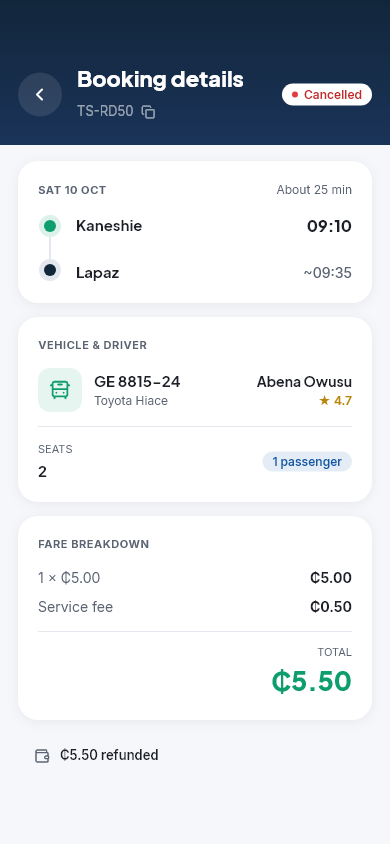
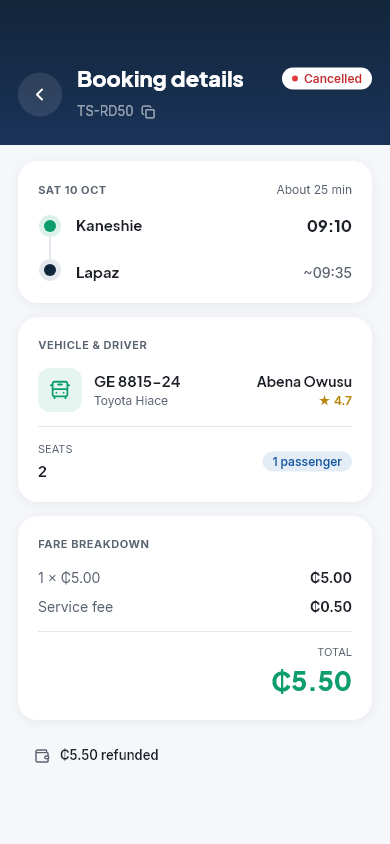
Booking details: the chip beside the title, the reference full size below
The white status chip is wider than the design's; beside both lines it
left the booking reference too little room, and it shrank to fit. The
chip now sits beside the title, and the reference has the line below.

Changed region(s): [[0.7077, 0.0616, 0.9538, 0.1232]]

diff --git a/TroSky/frontend/packages/trosky_ui/test/trips_components_test.dart b/TroSky/frontend/packages/trosky_ui/test/trips_components_test.dart
@@ -6,49 +6,65 @@ import 'package:flutter_test/flutter_test.dart';
 import 'package:trosky_ui/trosky_ui.dart';
 
 void main() {
-  testWidgets('a long booking reference stays on one line beside a chip, '
-      'on a 360 px phone at text scale 1.15', (tester) async {
-    tester.view.physicalSize = const Size(360, 400);
-    tester.view.devicePixelRatio = 1;
-    addTearDown(tester.view.reset);
-    await tester.pumpWidget(
-      MaterialApp(
-        theme: TroskyTheme.light(),
-        home: MediaQuery(
-          data: const MediaQueryData(
-            size: Size(360, 400),
-            textScaler: TextScaler.linear(1.15),
-          ),
-          child: Material(
-            child: TroskyPageHeader(
-              title: 'Booking details',
-              subtitle: 'TRK-6VJF55ME',
-              onBack: () {},
-              subtitleTrailing: TroskyIcons.copy(color: TroskyColors.whiteA55),
-              trailing: const TroskyStatusChip(
-                label: 'Pending payment',
-                tone: TroskyTagTone.amber,
+  testWidgets(
+    'a long booking reference stays on one line, full size, with a chip, '
+    'on a 360 px phone at text scale 1.15',
+    (tester) async {
+      tester.view.physicalSize = const Size(360, 400);
+      tester.view.devicePixelRatio = 1;
+      addTearDown(tester.view.reset);
+      await tester.pumpWidget(
+        MaterialApp(
+          theme: TroskyTheme.light(),
+          home: MediaQuery(
+            data: const MediaQueryData(
+              size: Size(360, 400),
+              textScaler: TextScaler.linear(1.15),
+            ),
+            child: Material(
+              child: TroskyPageHeader(
+                title: 'Booking details',
+                subtitle: 'TRK-6VJF55ME',
+                onBack: () {},
+                subtitleTrailing: TroskyIcons.copy(
+                  color: TroskyColors.whiteA55,
+                ),
+                trailing: const TroskyStatusChip(
+                  label: 'Pending payment',
+                  tone: TroskyTagTone.amber,
+                ),
               ),
             ),
           ),
         ),
-      ),
-    );
-    final reference = tester.renderObject<RenderParagraph>(
-      find.text('TRK-6VJF55ME'),
-    );
-    expect(reference.didExceedMaxLines, isFalse);
-    expect(
-      reference
-          .getBoxesForSelection(
-            const TextSelection(baseOffset: 0, extentOffset: 12),
-          )
-          .map((box) => box.top)
-          .toSet(),
-      hasLength(1),
-    );
-    expect(tester.takeException(), isNull);
-  });
+      );
+      final reference = tester.renderObject<RenderParagraph>(
+        find.text('TRK-6VJF55ME'),
+      );
+      expect(reference.didExceedMaxLines, isFalse);
+      expect(
+        reference
+            .getBoxesForSelection(
+              const TextSelection(baseOffset: 0, extentOffset: 12),
+            )
+            .map((box) => box.top)
+            .toSet(),
+        hasLength(1),
+      );
+      // Not shrunk to fit either: the chip leaves the line below the title
+      // to the reference.
+      final fitted = find.ancestor(
+        of: find.text('TRK-6VJF55ME'),
+        matching: find.byType(FittedBox),
+      );
+      expect(
+        tester.getSize(fitted).width /
+            tester.getSize(find.text('TRK-6VJF55ME')).width,
+        greaterThan(0.95),
+      );
+      expect(tester.takeException(), isNull);
+    },
+  );
 
   group('status colours read at WCAG AA (4.5:1)', () {
     double luminance(Color c) {

diff --git a/TroSky/frontend/packages/trosky_ui/lib/src/components/page_header.dart b/TroSky/frontend/packages/trosky_ui/lib/src/components/page_header.dart
@@ -76,14 +76,26 @@ class TroskyPageHeader extends StatelessWidget {
               child: Column(
                 crossAxisAlignment: CrossAxisAlignment.start,
                 children: [
-                  Semantics(
-                    header: true,
-                    child: Text(
-                      title,
-                      style: TroskyTypography.heading22ExtraBold.copyWith(
-                        color: TroskyColors.white,
+                  // A chip sits beside the title only, so the subtitle (a
+                  // booking reference) keeps the whole width below.
+                  Row(
+                    children: [
+                      Expanded(
+                        child: Semantics(
+                          header: true,
+                          child: Text(
+                            title,
+                            style: TroskyTypography.heading22ExtraBold.copyWith(
+                              color: TroskyColors.white,
+                            ),
+                          ),
+                        ),
                       ),
-                    ),
+                      if (trailing case final trailing?) ...[
+                        const SizedBox(width: TroskySpacing.s10),
+                        trailing,
+                      ],
+                    ],
                   ),
                   const SizedBox(height: TroskySpacing.s2),
                   Row(
@@ -109,10 +121,6 @@ class TroskyPageHeader extends StatelessWidget {
                 ],
               ),
             ),
-            if (trailing case final trailing?) ...[
-              const SizedBox(width: TroskySpacing.s10),
-              trailing,
-            ],
           ],
         ),
       ),
